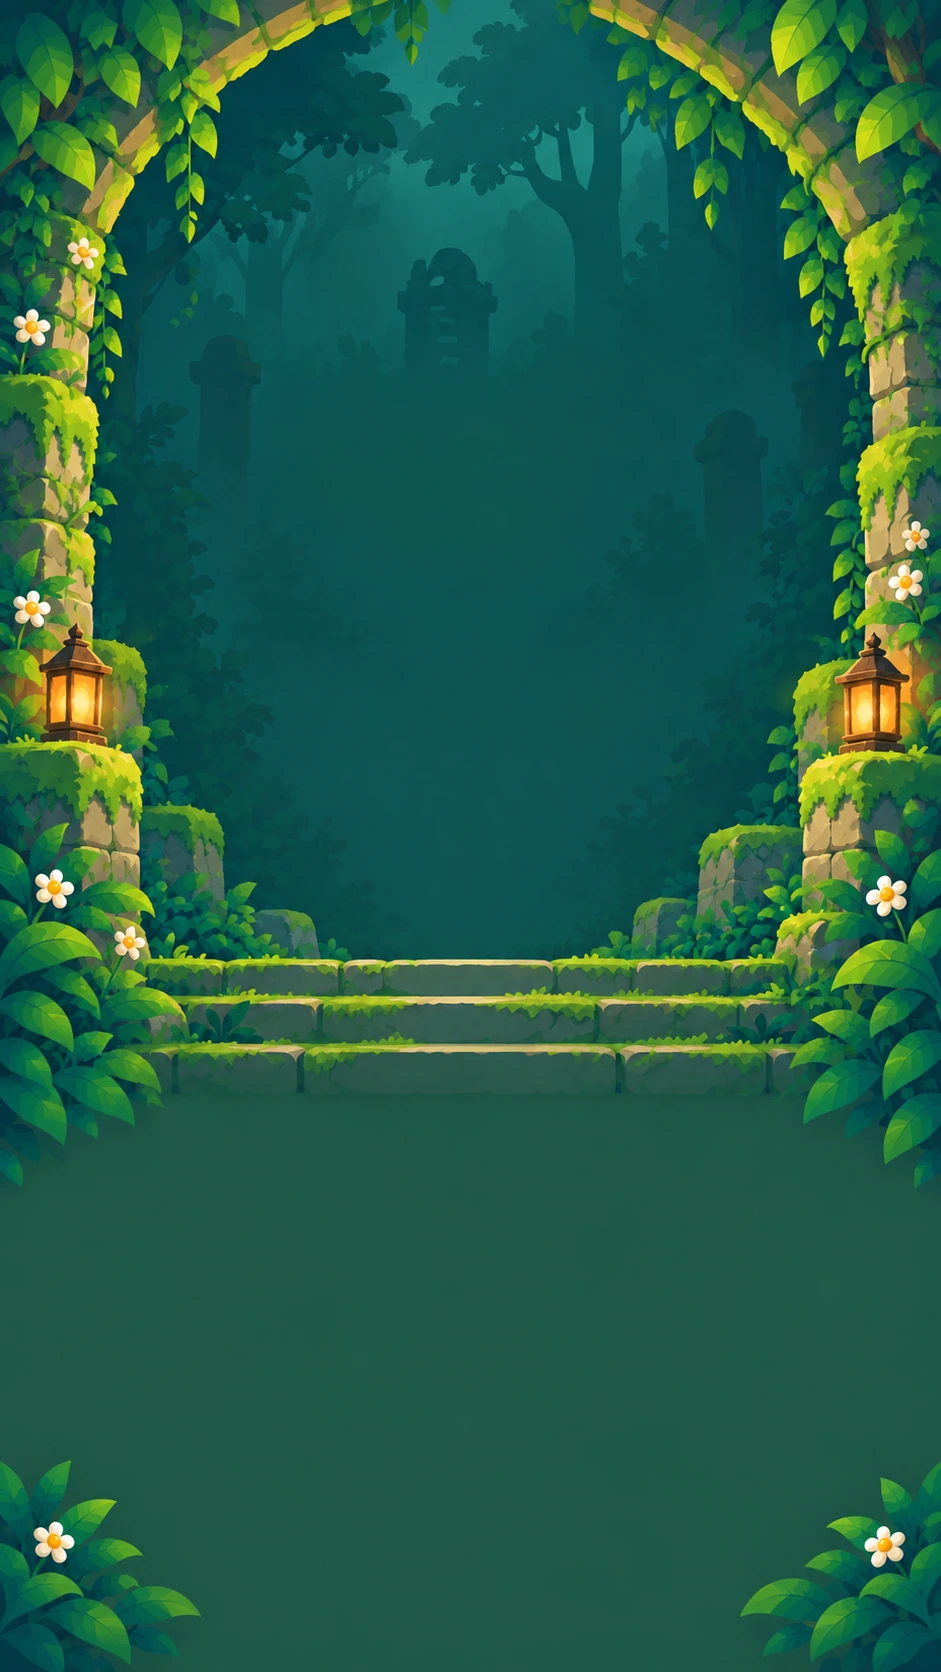
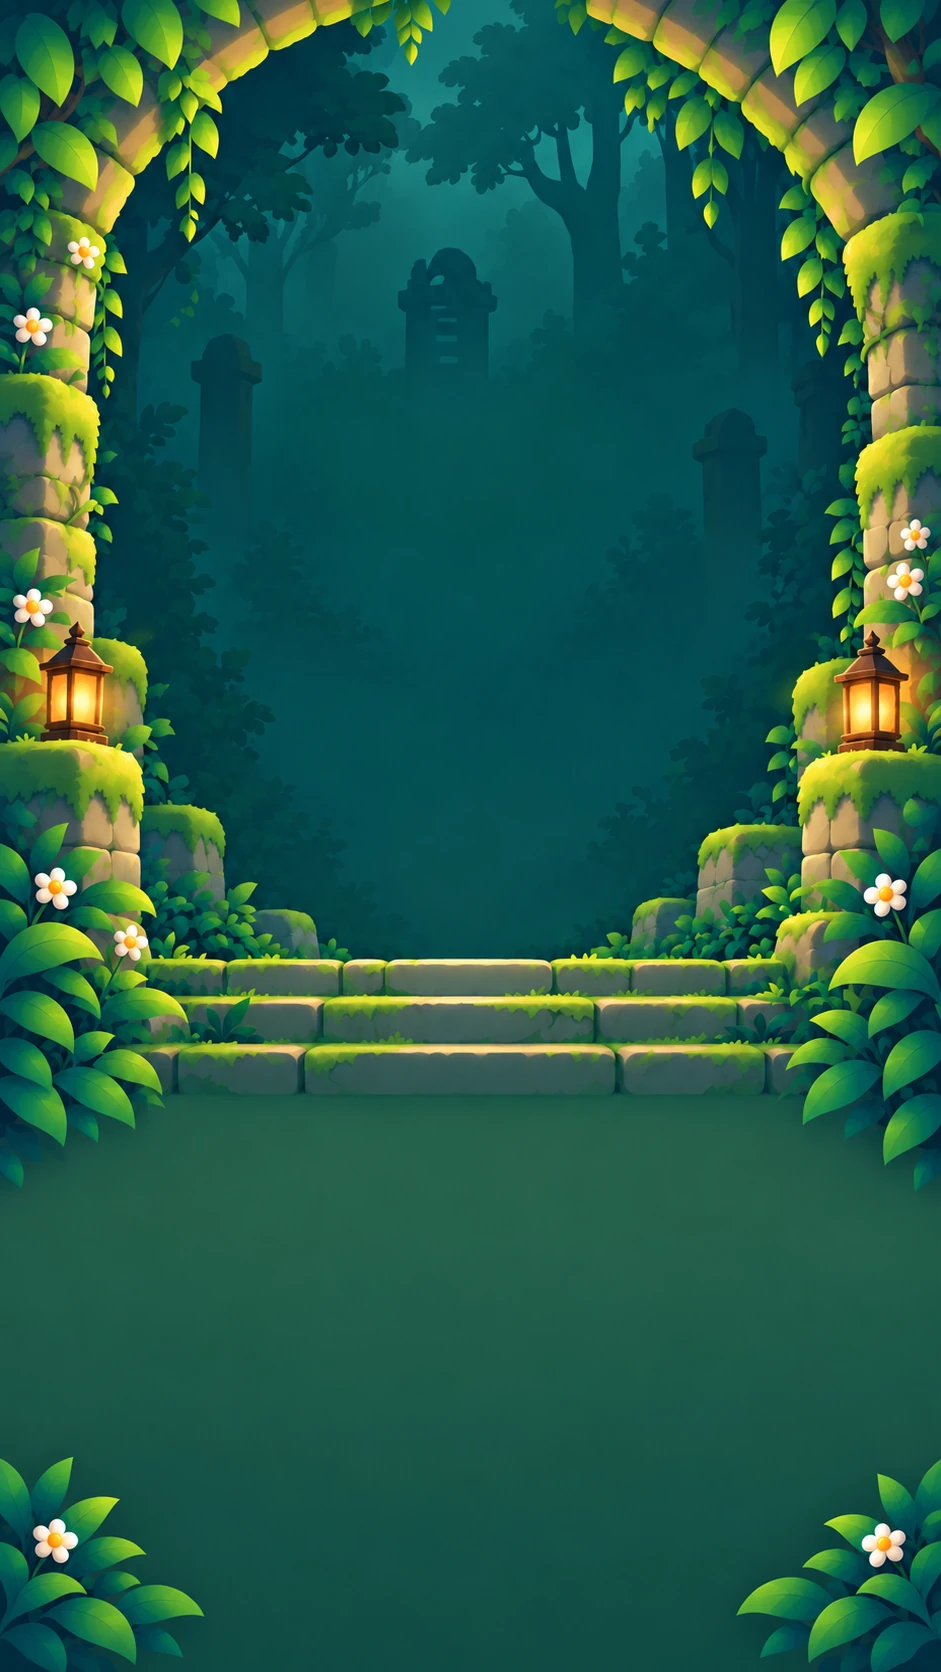
Apply approved smooth-shaded forest backgrounds

diff --git a/docs/index.html b/docs/index.html
@@ -12,8 +12,8 @@
   <body>
     <a class="skip" href="#main">Skip to content</a>
     <picture class="coming-art" aria-hidden="true">
-      <source media="(max-width: 699px)" srcset="assets/ending-forest-dungeon-mobile.webp">
-      <img src="assets/ending-forest-dungeon.webp" alt="" fetchpriority="high">
+      <source media="(max-width: 699px)" srcset="assets/ending-forest-dungeon-mobile.webp?v=smooth-20261018">
+      <img src="assets/ending-forest-dungeon.webp?v=smooth-20261018" alt="" fetchpriority="high">
     </picture>
 
     <main id="main" tabindex="-1">

diff --git a/artwork/README.md b/artwork/README.md
@@ -1,0 +1,43 @@
+# Approved forest background — October 18, 2026
+
+These sources belong to the private website-only repository. GitHub Pages publishes only `docs/`; do not expose this directory or change the publication root.
+
+The owner approved desktop smooth-shading version 2 in chat ("ayan tol apply mo"). The portrait asset adapts that finish to the existing mobile composition. The original logo, layout, text, policy and hosting settings are not modified.
+
+## Sources and shipping files
+
+| Role | Source PNG | Native size | Shipping WebP | Bytes |
+| --- | --- | --- | --- | --- |
+| Desktop | forest-desktop-smooth-v2.png | 1787×880 | ../docs/assets/ending-forest-dungeon.webp | 225864 |
+| Mobile | forest-mobile-smooth-v1.png | 941×1672 | ../docs/assets/ending-forest-dungeon-mobile.webp | 146560 |
+
+The built-in image generation/editing tool produced the PNGs. No CLI/API generation or artificial upscaling was used. Requested high-resolution output did not produce native 4K: actual native dimensions above are authoritative. Smoothness was improved through image editing rather than a CSS/global blur filter.
+
+WebPs are format-only delivery conversions using Sharp `webp({quality:90, effort:6})`, without resizing, filtering or composition changes. The combined delivery weight (372424 bytes) is slightly below the original pair (372546 bytes). Both HTML image references carry `?v=smooth-20261018` to refresh cached art.
+
+SHA-256:
+
[4 lines of base64/hex data omitted]
+
+## Inputs
+
+- Original website footer art: `lek2d/Fitama`, branch `codex/onboarding-ui-improvements`, source commit `c56c8fa7bc5ac6dda565968ba9cf814e9c9313b7`.
+- First desktop refinement used the original landscape and the app's `assets/figma/handoff/bandit-battle-background.png` as a style-only reference.
+- Approved desktop refinement used that first draft and the app's `assets/concepts/story-intro/companion-clearing-background-v1.png` as a style-only reference. No source scene's additional props were added.
+- Mobile adaptation used the original portrait as composition authority and the approved desktop as rendering authority.
+
+## Final desktop edit prompt — built-in tool
+
+Edit Image 1 only. Image 2 is a FiTama style reference, not a scene to copy. User feedback: make the SHADING noticeably smoother than Image 1. Keep Image 1's exact wide landscape composition, framing, mossy stone arch, pillar shapes, lantern positions, vines, white flowers, steps, foliage arrangement, existing deep teal/green palette and large dark uncluttered center unchanged. Replace the angular polygonal light/dark patches on leaves, stone, moss and tree bark with continuous silky soft gradients and smooth rounded volumetric shading. Gently airbrushed polished 2D mobile-game illustration, clean confident silhouettes and crisp edges, soft highlights smoothly rolling into shadows; each leaf should feel rounded and softly shaded, not cut into triangular color facets. Stone blocks should have gently modeled smooth lighting, not patchy hard-brush daubs. Use Image 2 only for its friendly clean FiTama shapes; make the actual shading even softer and more blended. This must be an evident smooth-shading refinement, NOT a blur filter: keep edges and small flowers sharply legible. Preserve atmospheric dark teal negative space for website logo and copy, don't add anything into the center. Do NOT bring over Image 2's blue sky, waterfall, mountains, bridge or path, and do not brighten or redesign the composition. No characters, extra props, text, logo, UI, watermark or border. No heavy black ink, rough painterly brushwork, geometric facets, texture noise or photorealism. Highest available native resolution, retaining approximately 2.04:1 aspect ratio. Opaque background. Return only the refined background.
+
+## Final mobile edit prompt — built-in tool
+
+Use case: style-transfer. Image 1 is the exact existing PORTRAIT mobile website background to edit. Image 2 is the owner-approved smooth-shaded DESKTOP version of the same scene and is the shading/color authority. Make Image 1 match Image 2's clean soft blended dimensional shading on leaves, moss, stone, lanterns and tree bark. Preserve Image 1's portrait aspect ratio approximately 9:16, entire framing, mossy arch curving across top, narrow side pillars, two amber lanterns, vines and white flowers, stone steps positioned around the lower middle, broad dark teal central opening and quiet green lower field. This is the matching mobile asset, not a crop of the landscape image. Use smooth continuous highlights into shadows and rounded softly shaded leaves/stones, not rough paint daubs, geometric color facets or blur filters. Keep sharp clean silhouettes. Preserve the dark uncluttered center for separately overlaid logo and text, same subdued teal forest depth and warm amber accents as approved Image 2. No characters, new props, weapons, buildings, text, logo, UI, watermark or borders. No photographic or 3D render. Highest available native resolution, opaque background. Only change the shading/render finish to match the approved desktop; do not redesign or brighten the composition.
+
+## Rollback
+
+Revert the background publication commit to restore the old WebPs, references and source record. Existing original images remain recoverable in Git history at `6364720`. Do not change DNS, CNAME, hosting, Privacy or the app worktree as part of rollback.
+

diff --git a/README.md b/README.md
@@ -6,7 +6,7 @@ Website-only static publication. The public site is built solely from `docs/`; t
 
 Owner approved a private website-only repository and web DNS changes for fitama.app. GoDaddy remains the registrar and DNS/email provider. Do not change MX, SPF or nameservers, purchase plans or expose app source. The initial Support-only publication excluded the unfinished Privacy draft. The owner subsequently approved finalizing and publishing Privacy with the retention rules below; the footer now links to it.
 
-Source design: `lek2d/Fitama` branch `codex/onboarding-ui-improvements`, commit `c56c8fa7bc5ac6dda565968ba9cf814e9c9313b7`; the approved Coming Soon adaptation reuses the original forest footer artwork, logo and Fredoka. No new artwork or image edits.
+Source design: `lek2d/Fitama` branch `codex/onboarding-ui-improvements`, commit `c56c8fa7bc5ac6dda565968ba9cf814e9c9313b7`; the Coming Soon adaptation retains the original forest-footer composition, logo and Fredoka. On October 18 the owner approved a smoother-shaded background edit and its matching portrait adaptation. Only the background artwork changed; layout, copy, Privacy, logo, DNS and hosting remain unchanged. Native source dimensions are 1787×880 desktop and 941×1672 mobile; this is a shading/definition improvement, not a native 4K output or artificial upscale. Generation prompts and original PNGs are recorded in the private `artwork/` source directory, outside the published `docs/` tree.
 
 ## Hosting
 
@@ -47,8 +47,8 @@ Publication rollback: revert the policy-publication commit in this website-only 
 ## Asset origins
 
[5 lines of base64/hex data omitted]
 - `docs/assets/fredoka-semibold.ttf`: existing self-hosted font; redistribution terms in `docs/assets/FONT-LICENSE.txt`.
 
 ## Rollback reference
